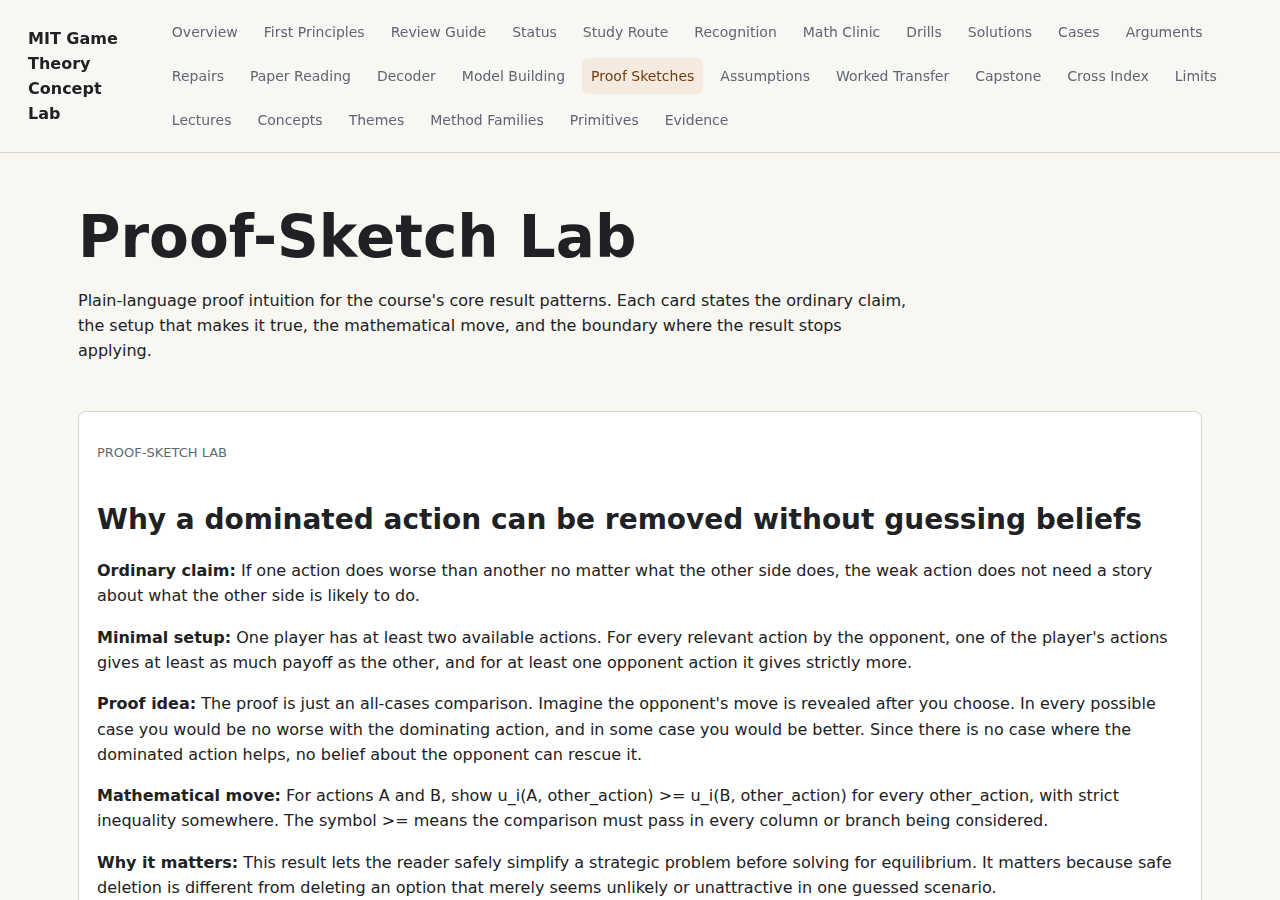
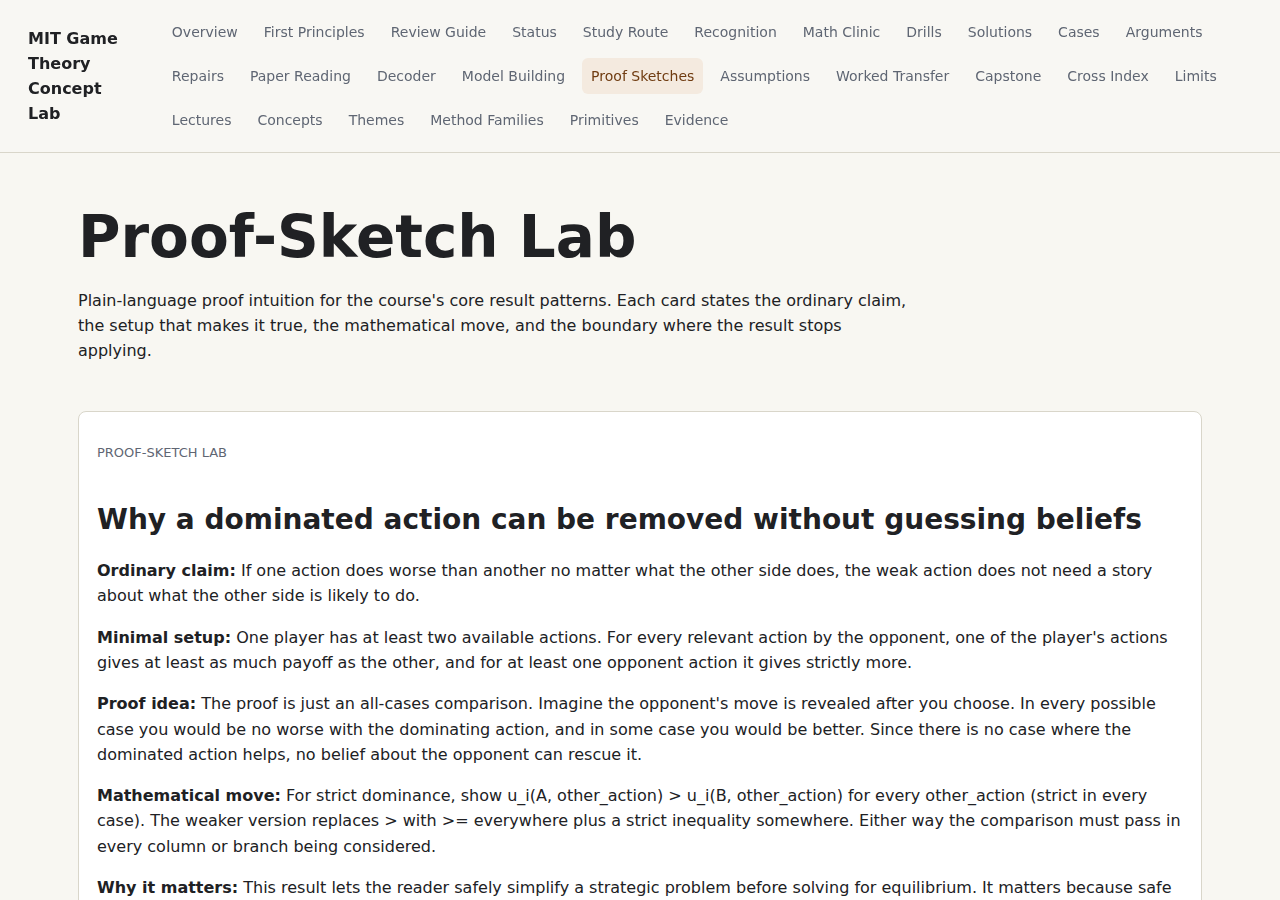
Correctness audit: fix 8 verified game-theory errors
First dedicated correctness audit of this repo (75 math-bearing items: concepts +
derivations + proof-sketches + math-clinic + solutions + drills; Haiku audit ->
transcript/theory-verified). 9 findings, 8 real (rejected one acceptable
beauty-contest illustration). The recurring issue was conflating STRICT and WEAK
dominance; fixes:

- dominance: define STRICT dominance (strictly higher against every opponent move)
  and distinguish weak dominance ("at least as high, strictly higher somewhere").
- dominance / iterated deletion: only STRICTLY dominated strategies never appear in a
  Nash equilibrium and are safe to delete (order-independent, preserve Nash); weak
  dominance lacks both guarantees. proof-sketch-lab mathematical_move corrected the
  same way (> for strict, not >=).
- finitely repeated games: qualified the "repetition can't sustain cooperation" claim —
  it holds when the stage game has a UNIQUE Nash equilibrium; with multiple stage
  equilibria a known endpoint can still support cooperation (both why_it_matters and the
  backward-induction principle).
- implicit cartels: the collusion condition compares LIFETIME discounted profit (not a
  single-period profit) on both sides.
- cheap talk: informative even under PARTIAL conflict of interest (Crawford-Sobel), not
  "only when interests are aligned".

Site rebuilt; validate_all + editorial-quality + plain-language audits all pass (0 errors).

Changed region(s): [[0.0625, 0.8711, 0.9062, 0.9956]]

diff --git a/site/proof-sketches.html b/site/proof-sketches.html
@@ -20,7 +20,7 @@
   <p><strong>Ordinary claim:</strong> If one action does worse than another no matter what the other side does, the weak action does not need a story about what the other side is likely to do.</p>
   <p><strong>Minimal setup:</strong> One player has at least two available actions. For every relevant action by the opponent, one of the player&#x27;s actions gives at least as much payoff as the other, and for at least one opponent action it gives strictly more.</p>
   <p><strong>Proof idea:</strong> The proof is just an all-cases comparison. Imagine the opponent&#x27;s move is revealed after you choose. In every possible case you would be no worse with the dominating action, and in some case you would be better. Since there is no case where the dominated action helps, no belief about the opponent can rescue it.</p>
-  <p><strong>Mathematical move:</strong> For actions A and B, show u_i(A, other_action) &gt;= u_i(B, other_action) for every other_action, with strict inequality somewhere. The symbol &gt;= means the comparison must pass in every column or branch being considered.</p>
+  <p><strong>Mathematical move:</strong> For strict dominance, show u_i(A, other_action) &gt; u_i(B, other_action) for every other_action (strict in every case). The weaker version replaces &gt; with &gt;= everywhere plus a strict inequality somewhere. Either way the comparison must pass in every column or branch being considered.</p>
   <p><strong>Why it matters:</strong> This result lets the reader safely simplify a strategic problem before solving for equilibrium. It matters because safe deletion is different from deleting an option that merely seems unlikely or unattractive in one guessed scenario.</p>
   <p><strong>Where it breaks:</strong> The argument fails if the comparison ignores some opponent action, if payoffs were mapped incorrectly, or if deletion changes the game in a way the model did not justify. It also does not say the remaining action is globally good; it only says the removed action was never needed.</p>
   <p><strong>Proof-reading move:</strong> When reading this proof, do not start by asking what the opponent will probably do. Start by drawing the full list of opponent actions as columns or branches. Then compare the two candidate actions row by row using the same opponent action each time. If one action wins or ties in every row and wins somewhere, the proof is finished because there is no belief that puts weight on a rescuing row.</p>

diff --git a/analysis/audits/site-render-report.md b/analysis/audits/site-render-report.md
@@ -23,7 +23,7 @@ Playwright render audit for representative desktop and mobile pages.
 - desktop-paper-reading: `paper-reading.html`, viewport 1280,900, captured 1280x900, 169548 bytes
 - desktop-jargon-decoder: `jargon-decoder.html`, viewport 1280,900, captured 1280x900, 156462 bytes
 - desktop-model-building: `model-building.html`, viewport 1280,900, captured 1280x900, 142592 bytes
-- desktop-proof-sketches: `proof-sketches.html`, viewport 1280,900, captured 1280x900, 158111 bytes
+- desktop-proof-sketches: `proof-sketches.html`, viewport 1280,900, captured 1280x900, 157066 bytes
 - desktop-assumptions: `assumptions.html`, viewport 1280,900, captured 1280x900, 160541 bytes
 - desktop-worked-transfer: `worked-transfer.html`, viewport 1280,900, captured 1280x900, 146185 bytes
 - desktop-capstone: `capstone.html`, viewport 1280,900, captured 1280x900, 163935 bytes

diff --git a/analysis/audits/editorial-quality-report.md b/analysis/audits/editorial-quality-report.md
@@ -116,7 +116,7 @@ This static audit checks explanatory depth, required teaching sections, evidence
 - Model-building decoder links: 20
 - Model-building evidence links: 25
 - Proof-sketch lab cards: 8
-- Proof-sketch lab words: min 479, max 524
+- Proof-sketch lab words: min 479, max 532
 - Proof-sketch concept links: 32
 - Proof-sketch primitive links: 24
 - Proof-sketch math clinic links: 11
